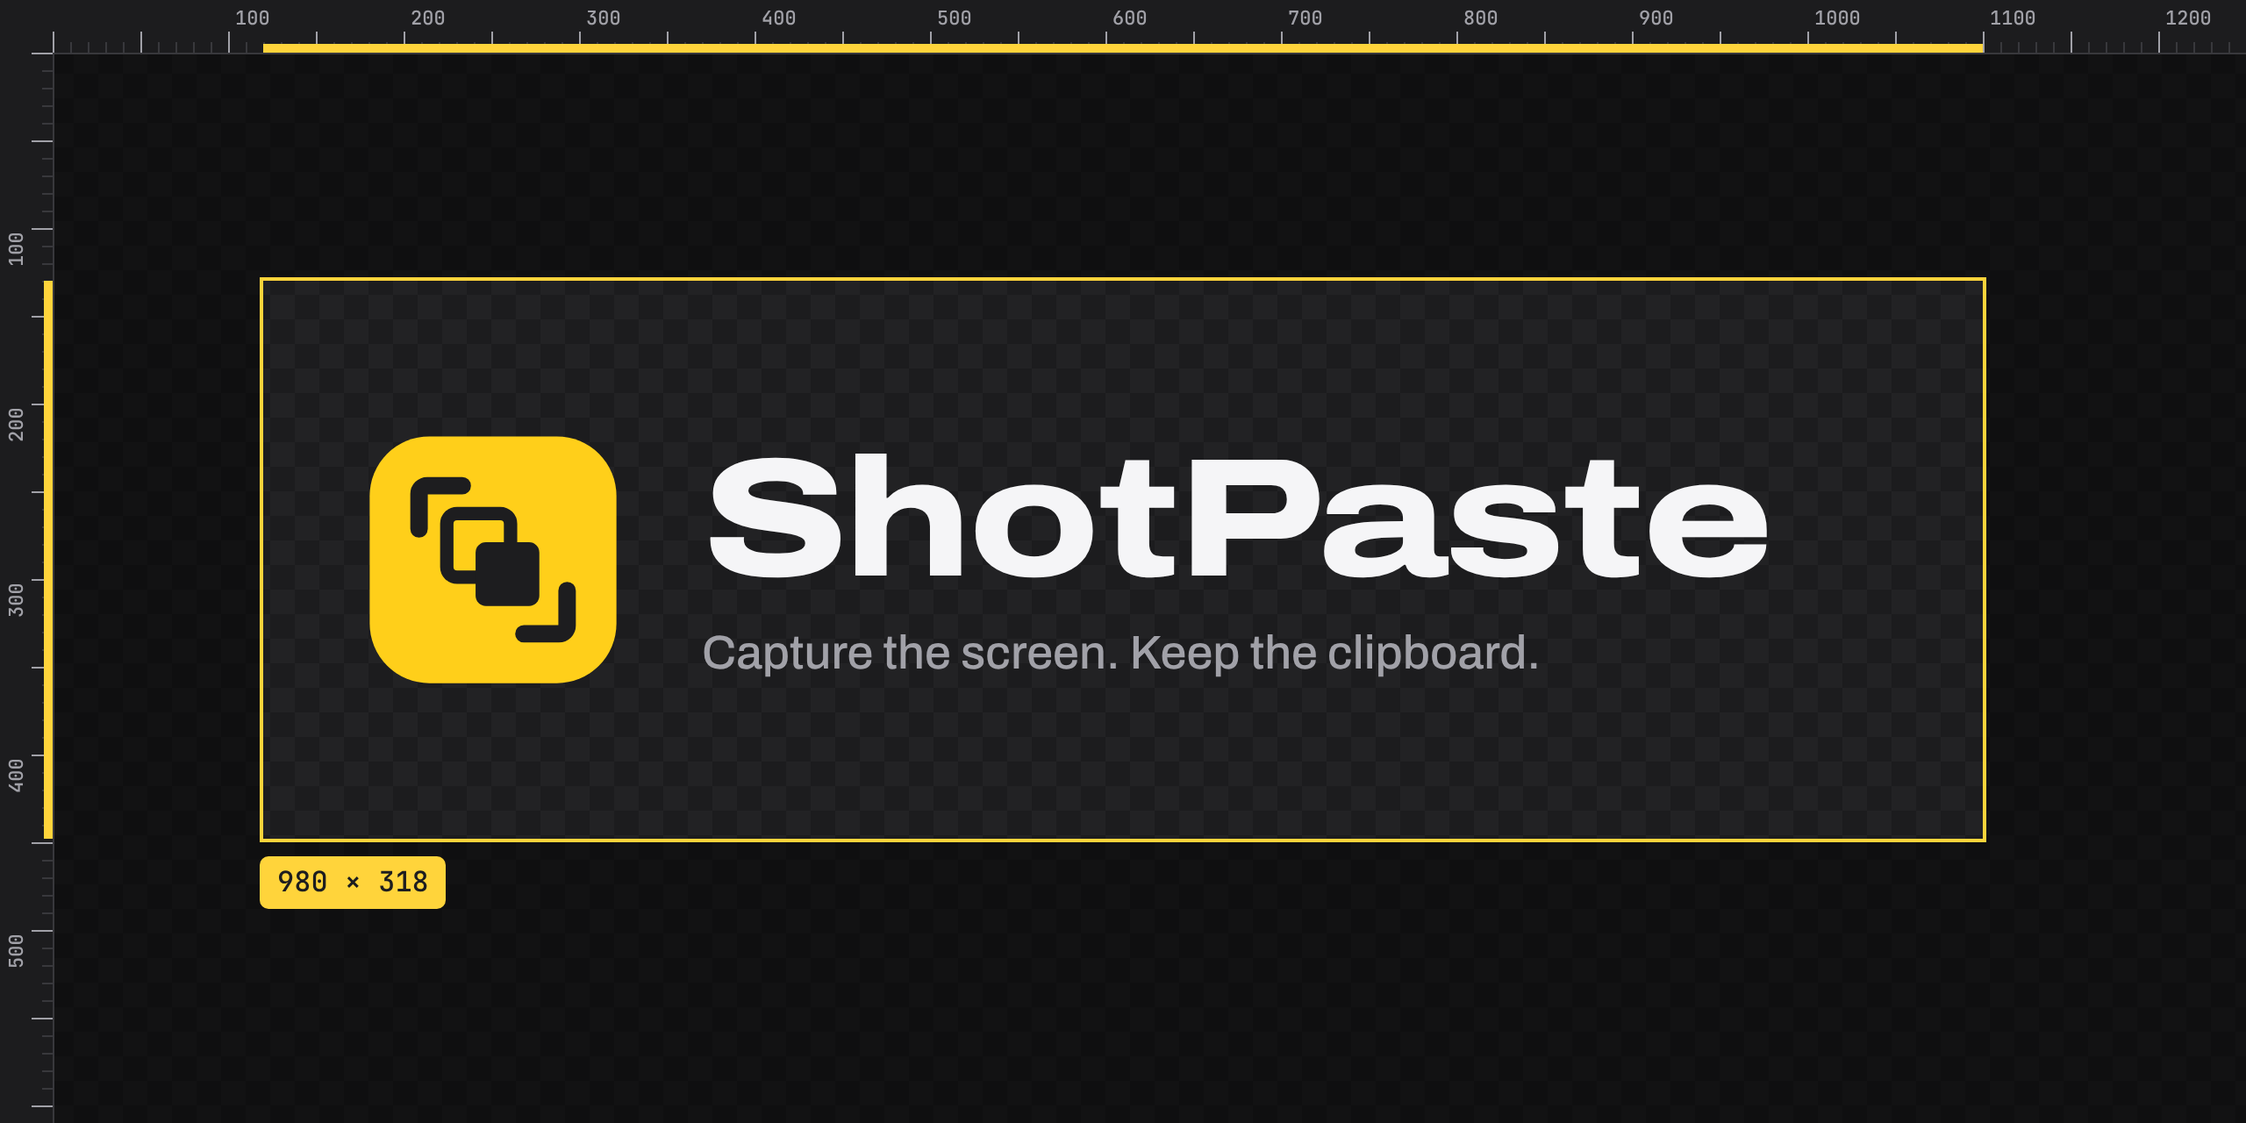
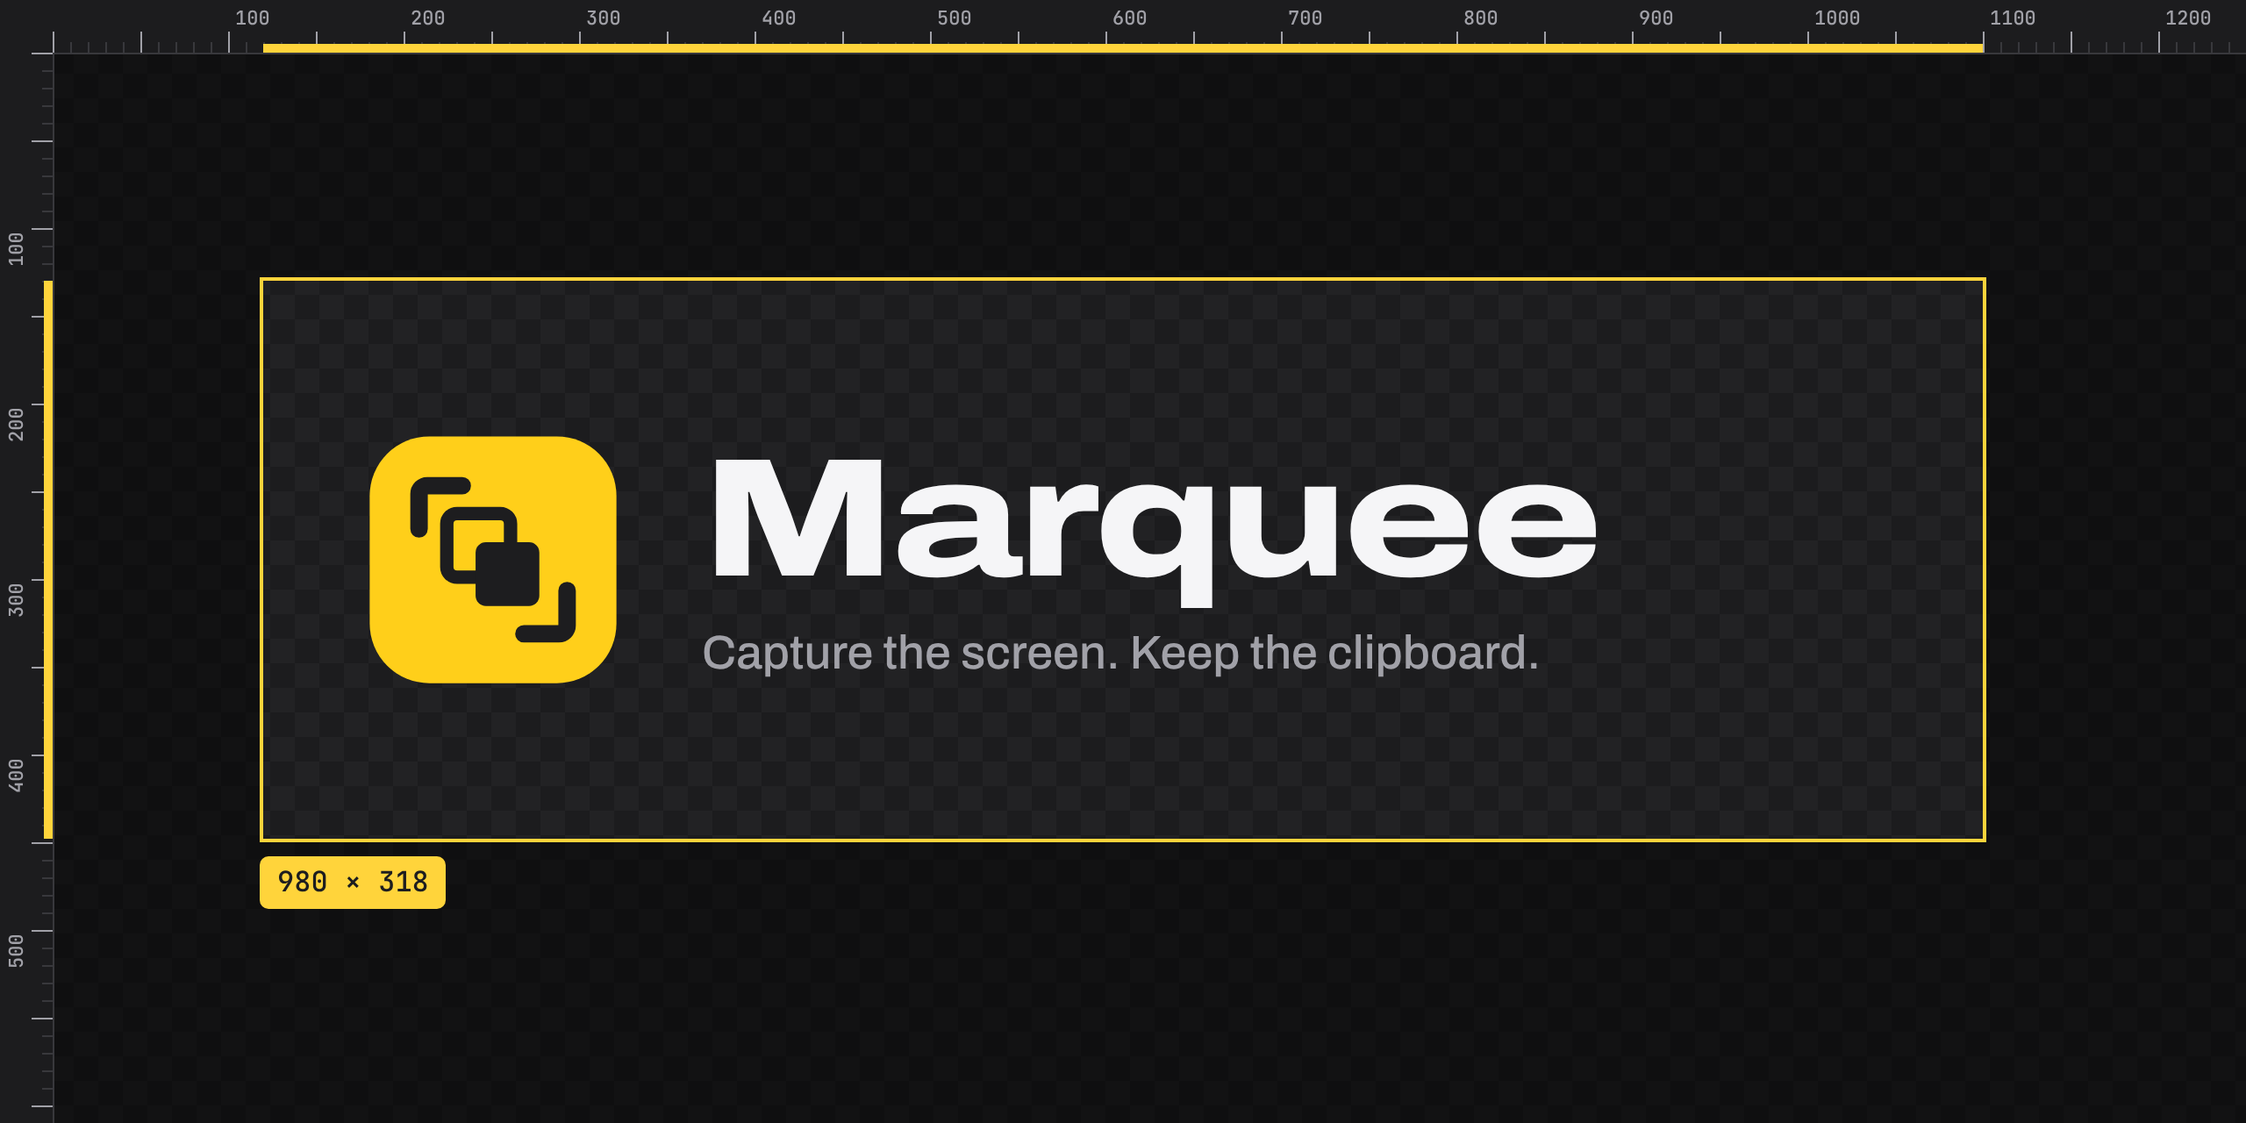
Rename the app to Marquee
The app now covers capture, recording, clipboard history and (soon)
measuring, so ShotPaste no longer fit. Marquee is the selection you drag
for all of them.

- Swift package, target and sources move to Sources/Marquee
- Bundle ID io.github.treposting.marquee; hotkey signature 'MRQE'
- First launch moves ~/Library/Application Support/ShotPaste and copies
  settings and shortcuts from io.github.shotpaste
- App, DMG, release workflow, website, README, docs and banners renamed

Claude-Session: https://claude.ai/code/session_01HUwfVqK2y3Wtfs1NS8MXGb

Changed region(s): [[0.3125, 0.4062, 0.8125, 0.5312]]

diff --git a/site/index.html b/site/index.html
@@ -3,9 +3,9 @@
 <head>
   <meta charset="utf-8">
   <meta name="viewport" content="width=device-width, initial-scale=1, viewport-fit=cover">
-  <title>ShotPaste</title>
+  <title>Marquee</title>
   <meta name="description" content="A free, open-source Mac menu-bar app for screenshots, screen recording, annotation, OCR and clipboard history.">
-  <meta property="og:title" content="ShotPaste">
+  <meta property="og:title" content="Marquee">
   <meta property="og:description" content="Capture the screen. Keep the clipboard. Free and open source for macOS.">
   <meta property="og:image" content="https://treposting.github.io/cleanshot-x-paste/assets/og.png">
   <meta name="twitter:card" content="summary_large_image">
@@ -366,7 +366,7 @@
 <body>
   <header class="nav">
     <div class="wrap">
-      <a class="mark" href="#top"><img src="assets/logo.svg" alt="">ShotPaste</a>
+      <a class="mark" href="#top"><img src="assets/logo.svg" alt="">Marquee</a>
       <nav>
         <a class="opt" href="#what">What it does</a>
         <a class="opt" href="#clipboard">Clipboard</a>
@@ -392,7 +392,7 @@
         </div>
 
         <div class="hero-foot">
-          <p class="lede">ShotPaste is a free, open-source menu-bar app for Mac. It takes screenshots and screen recordings, and it remembers everything you copy.</p>
+          <p class="lede">Marquee is a free, open-source menu-bar app for Mac. It takes screenshots and screen recordings, and it remembers everything you copy.</p>
           <div class="actions">
             <a class="btn" href="https://github.com/Treposting/cleanshot-x-paste/releases/latest">
               <svg viewBox="0 0 24 24" fill="none" stroke="currentColor" stroke-width="2.2" stroke-linecap="round" stroke-linejoin="round" aria-hidden="true"><path d="M12 4v11M7 10l5 5 5-5M5 20h14"/></svg>
@@ -481,7 +481,7 @@
             <article class="clip k-image">
               <header><div>Image<small>14 min ago</small></div><i>Sh</i></header>
               <div class="body"><div class="imgclip"></div></div>
-              <footer><span class="label">ShotPaste</span><span class="label num">⌘3</span></footer>
+              <footer><span class="label">Marquee</span><span class="label num">⌘3</span></footer>
             </article>
             <article class="clip k-link">
               <header><div>Link<small>1 hr ago</small></div><i>Sa</i></header>
@@ -503,7 +503,7 @@
           </div>
           <div>
             <h3>Passwords are skipped</h3>
-            <p>Password managers tag what they copy with <code>org.nspasteboard.ConcealedType</code>. ShotPaste never records those items.</p>
+            <p>Password managers tag what they copy with <code>org.nspasteboard.ConcealedType</code>. Marquee never records those items.</p>
           </div>
           <div>
             <h3>Stays on your Mac</h3>
@@ -521,9 +521,9 @@
         </div>
         <div class="install">
           <ol class="steps">
-            <li><b>Download the DMG</b><p>Get the latest release from <a class="textlink" href="https://github.com/Treposting/cleanshot-x-paste/releases/latest">GitHub</a>, open it, and drag ShotPaste into Applications.</p></li>
+            <li><b>Download the DMG</b><p>Get the latest release from <a class="textlink" href="https://github.com/Treposting/cleanshot-x-paste/releases/latest">GitHub</a>, open it, and drag Marquee into Applications.</p></li>
             <li><b>Open it once with right-click</b><p>Releases aren't notarized by Apple yet, so macOS asks you to confirm the first launch: right-click the app and choose Open.</p></li>
-            <li><b>Allow Screen Recording</b><p>macOS asks the first time you capture. Accessibility is optional; it lets ShotPaste paste into other apps for you.</p></li>
+            <li><b>Allow Screen Recording</b><p>macOS asks the first time you capture. Accessibility is optional; it lets Marquee paste into other apps for you.</p></li>
           </ol>
           <div class="term" aria-label="Build from source">
             <div class="bar"><i></i><i></i><i></i></div>
@@ -553,7 +553,7 @@
 
   <footer class="site">
     <div class="wrap">
-      <a class="mark" href="#top" style="font-size:15px"><img src="assets/logo.svg" alt="" style="width:22px;height:22px">ShotPaste</a>
+      <a class="mark" href="#top" style="font-size:15px"><img src="assets/logo.svg" alt="" style="width:22px;height:22px">Marquee</a>
       <nav>
         <a href="https://github.com/Treposting/cleanshot-x-paste/releases">Releases</a>
         <a href="https://github.com/Treposting/cleanshot-x-paste/blob/main/docs/HOW-IT-WORKS.md">How it works</a>

diff --git a/Sources/Marquee/Clipboard/ClipboardStore.swift b/Sources/Marquee/Clipboard/ClipboardStore.swift
@@ -2,7 +2,7 @@ import AppKit
 import CryptoKit
 
 /// Persists clipboard history to
-/// ~/Library/Application Support/ShotPaste/{history.json, images/}.
+/// ~/Library/Application Support/Marquee/{history.json, images/}.
 @MainActor
 final class ClipboardStore: ObservableObject {
     @Published private(set) var items: [ClipItem] = []
@@ -15,7 +15,13 @@ final class ClipboardStore: ObservableObject {
     init() {
         let support = FileManager.default.urls(for: .applicationSupportDirectory, in: .userDomainMask).first
             ?? FileManager.default.homeDirectoryForCurrentUser.appendingPathComponent("Library/Application Support")
-        directory = support.appendingPathComponent("ShotPaste", isDirectory: true)
+        directory = support.appendingPathComponent("Marquee", isDirectory: true)
+        // The app was called ShotPaste up to 0.2.0; carry its history over once.
+        let legacy = support.appendingPathComponent("ShotPaste", isDirectory: true)
+        if !FileManager.default.fileExists(atPath: directory.path),
+           FileManager.default.fileExists(atPath: legacy.path) {
+            try? FileManager.default.moveItem(at: legacy, to: directory)
+        }
         imagesDirectory = directory.appendingPathComponent("images", isDirectory: true)
         try? FileManager.default.createDirectory(at: imagesDirectory, withIntermediateDirectories: true)
         load()
@@ -45,7 +51,7 @@ final class ClipboardStore: ObservableObject {
         do {
             try pngData.write(to: imagesDirectory.appendingPathComponent(name), options: .atomic)
         } catch {
-            NSLog("ShotPaste: could not store image: \(error)")
+            NSLog("Marquee: could not store image: \(error)")
             return
         }
         insert(ClipItem(kind: .image, imageName: name, contentHash: hash,
@@ -149,7 +155,7 @@ final class ClipboardStore: ObservableObject {
         do {
             items = try JSONDecoder().decode([ClipItem].self, from: data)
         } catch {
-            NSLog("ShotPaste: could not read history: \(error)")
+            NSLog("Marquee: could not read history: \(error)")
         }
     }
 
@@ -167,7 +173,7 @@ final class ClipboardStore: ObservableObject {
                     let data = try JSONEncoder().encode(snapshot)
                     try data.write(to: file, options: .atomic)
                 } catch {
-                    NSLog("ShotPaste: could not save history: \(error)")
+                    NSLog("Marquee: could not save history: \(error)")
                 }
             }
         }

diff --git a/Sources/Marquee/App/AppDelegate.swift b/Sources/Marquee/App/AppDelegate.swift
@@ -16,6 +16,7 @@ final class AppDelegate: NSObject, NSApplicationDelegate {
     private var isStartingRecording = false
 
     func applicationDidFinishLaunching(_ notification: Notification) {
+        Preferences.migrateLegacySettings()
         Preferences.registerDefaults()
         setupStatusItem()
         registerHotKeys()
@@ -73,7 +74,7 @@ final class AppDelegate: NSObject, NSApplicationDelegate {
     }
 
     private static var idleIcon: NSImage? {
-        NSImage(systemSymbolName: "camera.viewfinder", accessibilityDescription: "ShotPaste")
+        NSImage(systemSymbolName: "camera.viewfinder", accessibilityDescription: "Marquee")
     }
 
     private func rebuildMenu() {
@@ -94,7 +95,7 @@ final class AppDelegate: NSObject, NSApplicationDelegate {
         menu.addItem(item("Open Screenshots Folder", #selector(openFolder)))
         menu.addItem(item("Settings…", #selector(openSettings), key: ","))
         menu.addItem(.separator())
-        menu.addItem(item("Quit ShotPaste", #selector(quit), key: "q"))
+        menu.addItem(item("Quit Marquee", #selector(quit), key: "q"))
         mainMenu = menu
         if !recorder.isRecording {
             statusItem.menu = menu
@@ -156,7 +157,7 @@ final class AppDelegate: NSObject, NSApplicationDelegate {
                 styleMask: [.titled, .closable],
                 backing: .buffered, defer: false
             )
-            window.title = "ShotPaste Settings"
+            window.title = "Marquee Settings"
             window.isReleasedWhenClosed = false
             window.contentViewController = NSHostingController(rootView: SettingsView())
             window.center()
@@ -299,8 +300,8 @@ final class AppDelegate: NSObject, NSApplicationDelegate {
         alert.informativeText = """
         \(error.localizedDescription)
 
-        ShotPaste needs the Screen Recording permission. Enable it in System Settings → \
-        Privacy & Security → Screen & System Audio Recording, then quit and reopen ShotPaste.
+        Marquee needs the Screen Recording permission. Enable it in System Settings → \
+        Privacy & Security → Screen & System Audio Recording, then quit and reopen Marquee.
         """
         alert.addButton(withTitle: "Open System Settings")
         alert.addButton(withTitle: "Cancel")

diff --git a/Sources/Marquee/Record/ScreenRecorder.swift b/Sources/Marquee/Record/ScreenRecorder.swift
@@ -24,7 +24,7 @@ final class ScreenRecorder {
             throw RecorderError.displayNotFound
         }
 
-        // Keep ShotPaste's own windows (selection border, overlays) out of the video.
+        // Keep Marquee's own windows (selection border, overlays) out of the video.
         let pid = ProcessInfo.processInfo.processIdentifier
         let ownApps = content.applications.filter { $0.processID == pid }
         let filter = SCContentFilter(display: display, excludingApplications: ownApps, exceptingWindows: [])
@@ -55,10 +55,10 @@ final class ScreenRecorder {
         config.channelCount = 2
 
         let url = FileManager.default.temporaryDirectory
-            .appendingPathComponent("ShotPaste-\(UUID().uuidString).mp4")
+            .appendingPathComponent("Marquee-\(UUID().uuidString).mp4")
         let output = try RecordingOutput(url: url, width: width, height: height, fps: fps, captureAudio: captureAudio)
         output.onStreamError = { [weak self] error in
-            NSLog("ShotPaste: recording stream stopped: \(error)")
+            NSLog("Marquee: recording stream stopped: \(error)")
             Task { @MainActor in self?.onUnexpectedStop?() }
         }
 
@@ -87,7 +87,7 @@ final class ScreenRecorder {
         do {
             try await stream.stopCapture()
         } catch {
-            NSLog("ShotPaste: stopCapture failed: \(error)")
+            NSLog("Marquee: stopCapture failed: \(error)")
         }
         return await output.finish()
     }

diff --git a/Sources/Marquee/Capture/CaptureService.swift b/Sources/Marquee/Capture/CaptureService.swift
@@ -13,7 +13,7 @@ enum CaptureMode {
 /// It gives us the native crosshair selection UI (with Space to toggle window
 /// mode, Esc to cancel, Shift/Option to lock and resize) for free, and handles
 /// multiple displays and Retina scaling. The Screen Recording permission prompt
-/// is attributed to ShotPaste because we are the responsible process.
+/// is attributed to Marquee because we are the responsible process.
 @MainActor
 final class CaptureService {
     private var isCapturing = false
@@ -23,7 +23,7 @@ final class CaptureService {
         isCapturing = true
 
         let url = FileManager.default.temporaryDirectory
-            .appendingPathComponent("ShotPaste-\(UUID().uuidString).png")
+            .appendingPathComponent("Marquee-\(UUID().uuidString).png")
 
         var args: [String] = []
         if !Preferences.playSound || mode == .text { args.append("-x") }
@@ -54,7 +54,7 @@ final class CaptureService {
             try process.run()
         } catch {
             isCapturing = false
-            NSLog("ShotPaste: screencapture failed: \(error)")
+            NSLog("Marquee: screencapture failed: \(error)")
             completion(nil)
         }
     }

diff --git a/Sources/Marquee/App/Shortcuts.swift b/Sources/Marquee/App/Shortcuts.swift
@@ -112,11 +112,11 @@ enum ShortcutAction: String, CaseIterable, Identifiable {
 /// Persists user-chosen shortcuts in UserDefaults ("shortcut.<action>").
 /// A missing value means "use the default"; "none" means the user cleared it.
 enum ShortcutStore {
-    static let didChange = Notification.Name("ShotPaste.shortcutsDidChange")
+    static let didChange = Notification.Name("Marquee.shortcutsDidChange")
     /// Posted while a recorder is listening, so global hotkeys can be suspended
     /// (otherwise the system would swallow an already-registered combo).
-    static let recordingWillBegin = Notification.Name("ShotPaste.shortcutRecordingWillBegin")
-    static let recordingDidEnd = Notification.Name("ShotPaste.shortcutRecordingDidEnd")
+    static let recordingWillBegin = Notification.Name("Marquee.shortcutRecordingWillBegin")
+    static let recordingDidEnd = Notification.Name("Marquee.shortcutRecordingDidEnd")
 
     private static var defaults: UserDefaults { .standard }
     private static func key(_ action: ShortcutAction) -> String { "shortcut.\(action.rawValue)" }

diff --git a/Sources/Marquee/Record/RecordingOutput.swift b/Sources/Marquee/Record/RecordingOutput.swift
@@ -7,7 +7,7 @@ import ScreenCaptureKit
 /// `queue`, which is also the stream's sample-handler queue.
 final class RecordingOutput: NSObject, SCStreamOutput, SCStreamDelegate, @unchecked Sendable {
     let url: URL
-    let queue = DispatchQueue(label: "ShotPaste.recording")
+    let queue = DispatchQueue(label: "Marquee.recording")
 
     /// Called (on `queue`) if the stream stops by itself, e.g. the display went away.
     var onStreamError: ((Error) -> Void)?
@@ -125,7 +125,7 @@ final class RecordingOutput: NSObject, SCStreamOutput, SCStreamDelegate, @unchec
         }
         await writer.finishWriting()
         if writer.status != .completed {
-            NSLog("ShotPaste: recording failed: \(String(describing: writer.error))")
+            NSLog("Marquee: recording failed: \(String(describing: writer.error))")
             return nil
         }
         return url

diff --git a/Sources/Marquee/App/Preferences.swift b/Sources/Marquee/App/Preferences.swift
@@ -25,6 +25,18 @@ enum Preferences {
             ?? FileManager.default.homeDirectoryForCurrentUser
     }
 
+    /// The app was called ShotPaste (bundle ID io.github.shotpaste) up to 0.2.0.
+    /// Copy its settings and shortcuts over the first time Marquee runs.
+    static func migrateLegacySettings() {
+        let migratedKey = "migratedFromShotPaste"
+        guard !defaults.bool(forKey: migratedKey) else { return }
+        defaults.set(true, forKey: migratedKey)
+        guard let legacy = defaults.persistentDomain(forName: "io.github.shotpaste") else { return }
+        for (key, value) in legacy where defaults.object(forKey: key) == nil {
+            defaults.set(value, forKey: key)
+        }
+    }
+
     static func registerDefaults() {
         defaults.register(defaults: [
             Key.showOverlay.rawValue: true,

diff --git a/Sources/Marquee/App/HotKeyCenter.swift b/Sources/Marquee/App/HotKeyCenter.swift
@@ -18,13 +18,13 @@ final class HotKeyCenter {
         let id = nextID
         nextID += 1
         var ref: EventHotKeyRef?
-        let hotKeyID = EventHotKeyID(signature: OSType(0x5348_5054), id: id) // 'SHPT'
+        let hotKeyID = EventHotKeyID(signature: OSType(0x4D52_5145), id: id) // 'MRQE'
         let status = RegisterEventHotKey(
             combo.keyCode, combo.modifiers, hotKeyID,
             GetApplicationEventTarget(), 0, &ref
         )
         guard status == noErr, let ref else {
-            NSLog("ShotPaste: failed to register hotkey \(combo.displayString) (status \(status))")
+            NSLog("Marquee: failed to register hotkey \(combo.displayString) (status \(status))")
             return false
         }
         handlers[id] = handler

diff --git a/Sources/Marquee/Capture/Capture.swift b/Sources/Marquee/Capture/Capture.swift
@@ -60,7 +60,7 @@ final class Capture: ObservableObject, Identifiable {
             }
             return dest
         } catch {
-            NSLog("ShotPaste: save failed: \(error)")
+            NSLog("Marquee: save failed: \(error)")
             return nil
         }
     }
@@ -69,7 +69,7 @@ final class Capture: ObservableObject, Identifiable {
         let f = DateFormatter()
         f.locale = Locale(identifier: "en_US_POSIX")
         f.dateFormat = "yyyy-MM-dd 'at' HH.mm.ss"
-        let prefix = ext == "png" ? "ShotPaste" : "ShotPaste Recording"
+        let prefix = ext == "png" ? "Marquee" : "Marquee Recording"
         return "\(prefix) \(f.string(from: date))\(suffix).\(ext)"
     }
 

diff --git a/Sources/Marquee/UI/SettingsView.swift b/Sources/Marquee/UI/SettingsView.swift
@@ -85,7 +85,7 @@ private struct LaunchAtLoginToggle: View {
                         try SMAppService.mainApp.unregister()
                     }
                 } catch {
-                    NSLog("ShotPaste: launch at login failed: \(error)")
+                    NSLog("Marquee: launch at login failed: \(error)")
                 }
                 enabled = SMAppService.mainApp.status == .enabled
             }

diff --git a/Sources/Marquee/Clipboard/ClipboardMonitor.swift b/Sources/Marquee/Clipboard/ClipboardMonitor.swift
@@ -42,7 +42,7 @@ final class ClipboardMonitor {
         timer = nil
     }
 
-    /// Call after ShotPaste itself writes to the pasteboard (e.g. pasting a
+    /// Call after Marquee itself writes to the pasteboard (e.g. pasting a
     /// history item) so the write is not recorded as a new entry.
     func ignoreCurrentContents() {
         lastChangeCount = NSPasteboard.general.changeCount
